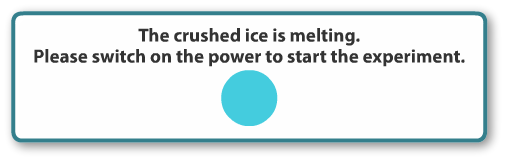
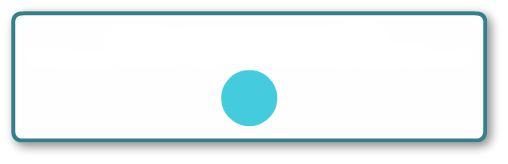
power on button

Changed region(s): [[0.0591, 0.3049, 0.9154, 0.3963], [0.2657, 0.1524, 0.7087, 0.2744]]

diff --git a/index.html b/index.html
@@ -18,9 +18,10 @@
 <body class="disable-dbl-tap-zoom">
     <div id="wrapper" style="font-family: 'Myriad-pro-bold';">
         <div class="startBox" id="boxy">
-            <img id="pop1" src="./Images/Pop1.png" alt="">
+            <img id="pop1" src="./Images/Pop1.png" alt=""><span id="pop1Span">碎冰正在溶解。<br>
+                請開啓電源，進行實驗。</span></img>
             <!-- <img id="circle" src="./Images/Pop_circle.png"> -->
-            <img id="pop2" src="./Images/pop_on.png" alt="">
+            <img id="pop2" src="./Images/Pop1pp.png" alt=""><span id="pop2Span">電源自動開啓。</span></img>
         </div>
         <div class="closeBox" id="boxyClose">
             <img id="popoff" src="./Images/pop_off.png" alt="">
@@ -103,10 +104,12 @@
                         class="units"> kg</span></div>
                 <div class='mask' id='masks'></div>
                 <input type="image" class="powerOnBtn" tabindex="3" value="power on" id="powerOn" src="./Images/Power_on.png" onmouseenter="onHoverPowerOn()"
-                    onmouseleave="offHoverPowerOn()" onclick="powerOn()">
-                <img class="powerOffBtn" tabindex="6" id="powerOff" src="./Images/Power_off.png" onmouseenter="onHoverPowerOff()"
-                    onmouseleave="offHoverPowerOff()" onclick="powerOff()">
-                <div class="about">焦耳計的最後讀數 &nbsp; = <span class="lowerValues1" id="finalJ"> </span><span
+                    onmouseleave="offHoverPowerOn()" onclick="powerOn()"><span id="powerOnIn" onmouseenter="onHoverPowerOn()"
+                    onmouseleave="offHoverPowerOn()" onclick="powerOn()">開啓電源</span></input>
+                <img class="powerOffBtn" tabindex="6" id="powerOff" src="./Images/Power_on.png" onmouseenter="onHoverPowerOff()"
+                    onmouseleave="offHoverPowerOff()" onclick="powerOff()"><span id="powerOffIn" onmouseenter="onHoverPowerOff()"
+                    onmouseleave="offHoverPowerOff()" onclick="powerOff()">Power Off</span></img>
+                <div class="about">焦耳計的最後讀數&nbsp;= <span class="lowerValues1" id="finalJ"> </span><span
                         class="units"> J</span></div>
                 <div class="about">燒杯 <span style="font-style: italic;">B </span> 中水的質量  = <span class="lowerValues" id="massB2"> </span><span
                         class="units">kg</span></div>

diff --git a/index.js b/index.js
@@ -38,19 +38,23 @@ function offHoverReset() {
 }
 
 function onHoverPowerOn() {
-  $(".powerOnBtn").attr("src", "./Images/Power_on_highlight.png");
+  $("#powerOnIn").text('開啓電源');
+  $("#powerOnIn").css("color", "#b9009c");
 }
 
 function offHoverPowerOn() {
-  $(".powerOnBtn").attr("src", "./Images/Power_on.png");
+  $("#powerOnIn").text('開啓電源');
+  $("#powerOnIn").css("color", "#65989a");
 }
 
 function onHoverPowerOff() {
-  $(".powerOffBtn").attr("src", "./Images/Power_off-hover.png");
+  $("#powerOffIn").text('Power Off');
+  $("#powerOffIn").css("color", "#b9009c");
 }
 
 function offHoverPowerOff() {
-  $(".powerOffBtn").attr("src", "./Images/Power_off.png");
+  $("#powerOffIn").text('Power Off');
+  $("#powerOffIn").css("color", "#65989a");
 }
 
 function onHoverpopup() {
@@ -76,7 +80,9 @@ function powerOn() {
   // document.getElementById('pop2').style.display='block'
   document.getElementById("power_glow").style.display = "none";
   document.getElementById("powerOn").style.display = "none";
+  document.getElementById("powerOnIn").style.display = "none";
   document.getElementById("powerOff").style.display = "block";
+  document.getElementById("powerOffIn").style.display = "block";
   document.getElementById("powerOff").style.opacity = "0.5";
   document.getElementById("powerOff").style.pointerEvents = "none";
   powerOnTimeOutNew = setTimeout(() => {
@@ -131,6 +137,7 @@ function powerOff() {
 
   document.getElementById("power_glow").style.display = "none";
   document.getElementById("powerOff").style.display = "none";
+  document.getElementById("powerOffIn").style.display = "none";
   document.getElementById("powerOn").style.display = "none";
   document.getElementById("masks").style.display = "block";
   clearTimeout(powerOnTimeOut);

diff --git a/popup.js b/popup.js
@@ -7,7 +7,9 @@ function start(){
       clearInterval(downloadTimer);
       document.getElementById("countdown").style.display = "none"
       document.getElementById('pop1').style.display='none'
+      document.getElementById('pop1Span').style.display='none'
       document.getElementById('pop2').style.display='block'
+      document.getElementById('pop2Span').style.display='block'
       setTimeout(hidePopup, 1500);
       powerOn();
       document.getElementById("initialJ").innerHTML = initialReading;
@@ -29,7 +31,9 @@ function resetPopup(){
   // document.getElementById("machineText").innerHTML = initialReading + " J";
   document.getElementById('boxy').style.visibility='visible';
   document.getElementById('pop1').style.display='block';
+  document.getElementById('pop1Span').style.display='block';
   document.getElementById('pop2').style.display='none';
+  document.getElementById('pop2Span').style.display='block'
   timeleft = 10;
   clearInterval(downloadTimer);
   downloadTimer = setInterval(start, 1000);

diff --git a/style.css b/style.css
@@ -381,6 +381,7 @@ body {
   display: none;
   height: 164px;
   width: 508px;
+
 }
 
 #countdown{
@@ -558,4 +559,37 @@ width: 115px;
   -moz-animation-play-state: paused !important;
   -o-animation-play-state: paused !important; 
   animation-play-state: paused !important;
+}
+#powerOnIn{
+  position: absolute;
+  right: 31px;
+  top: 10px;
+  z-index: 9999;
+  font-size: 18px;
+  color: #65989a;
+}
+#powerOffIn{
+  position: absolute;
+  right: 31px;
+  top: 10px;
+  z-index: 9999;
+  font-size: 18px;
+  color: #65989a;
+  display: none;
+}
+#pop2Span{
+  position: absolute;
+  font-size: 18px;
+  display: none;
+  left: 50%;
+  top: 50%;
+  transform: translate(-50%, -50%);
+  font-weight: bold;
+}
+#pop1Span{
+  position: absolute;
+  font-size: 18px;
+  font-weight: 600;
+  top: 42%;
+  text-align: center;
 }
